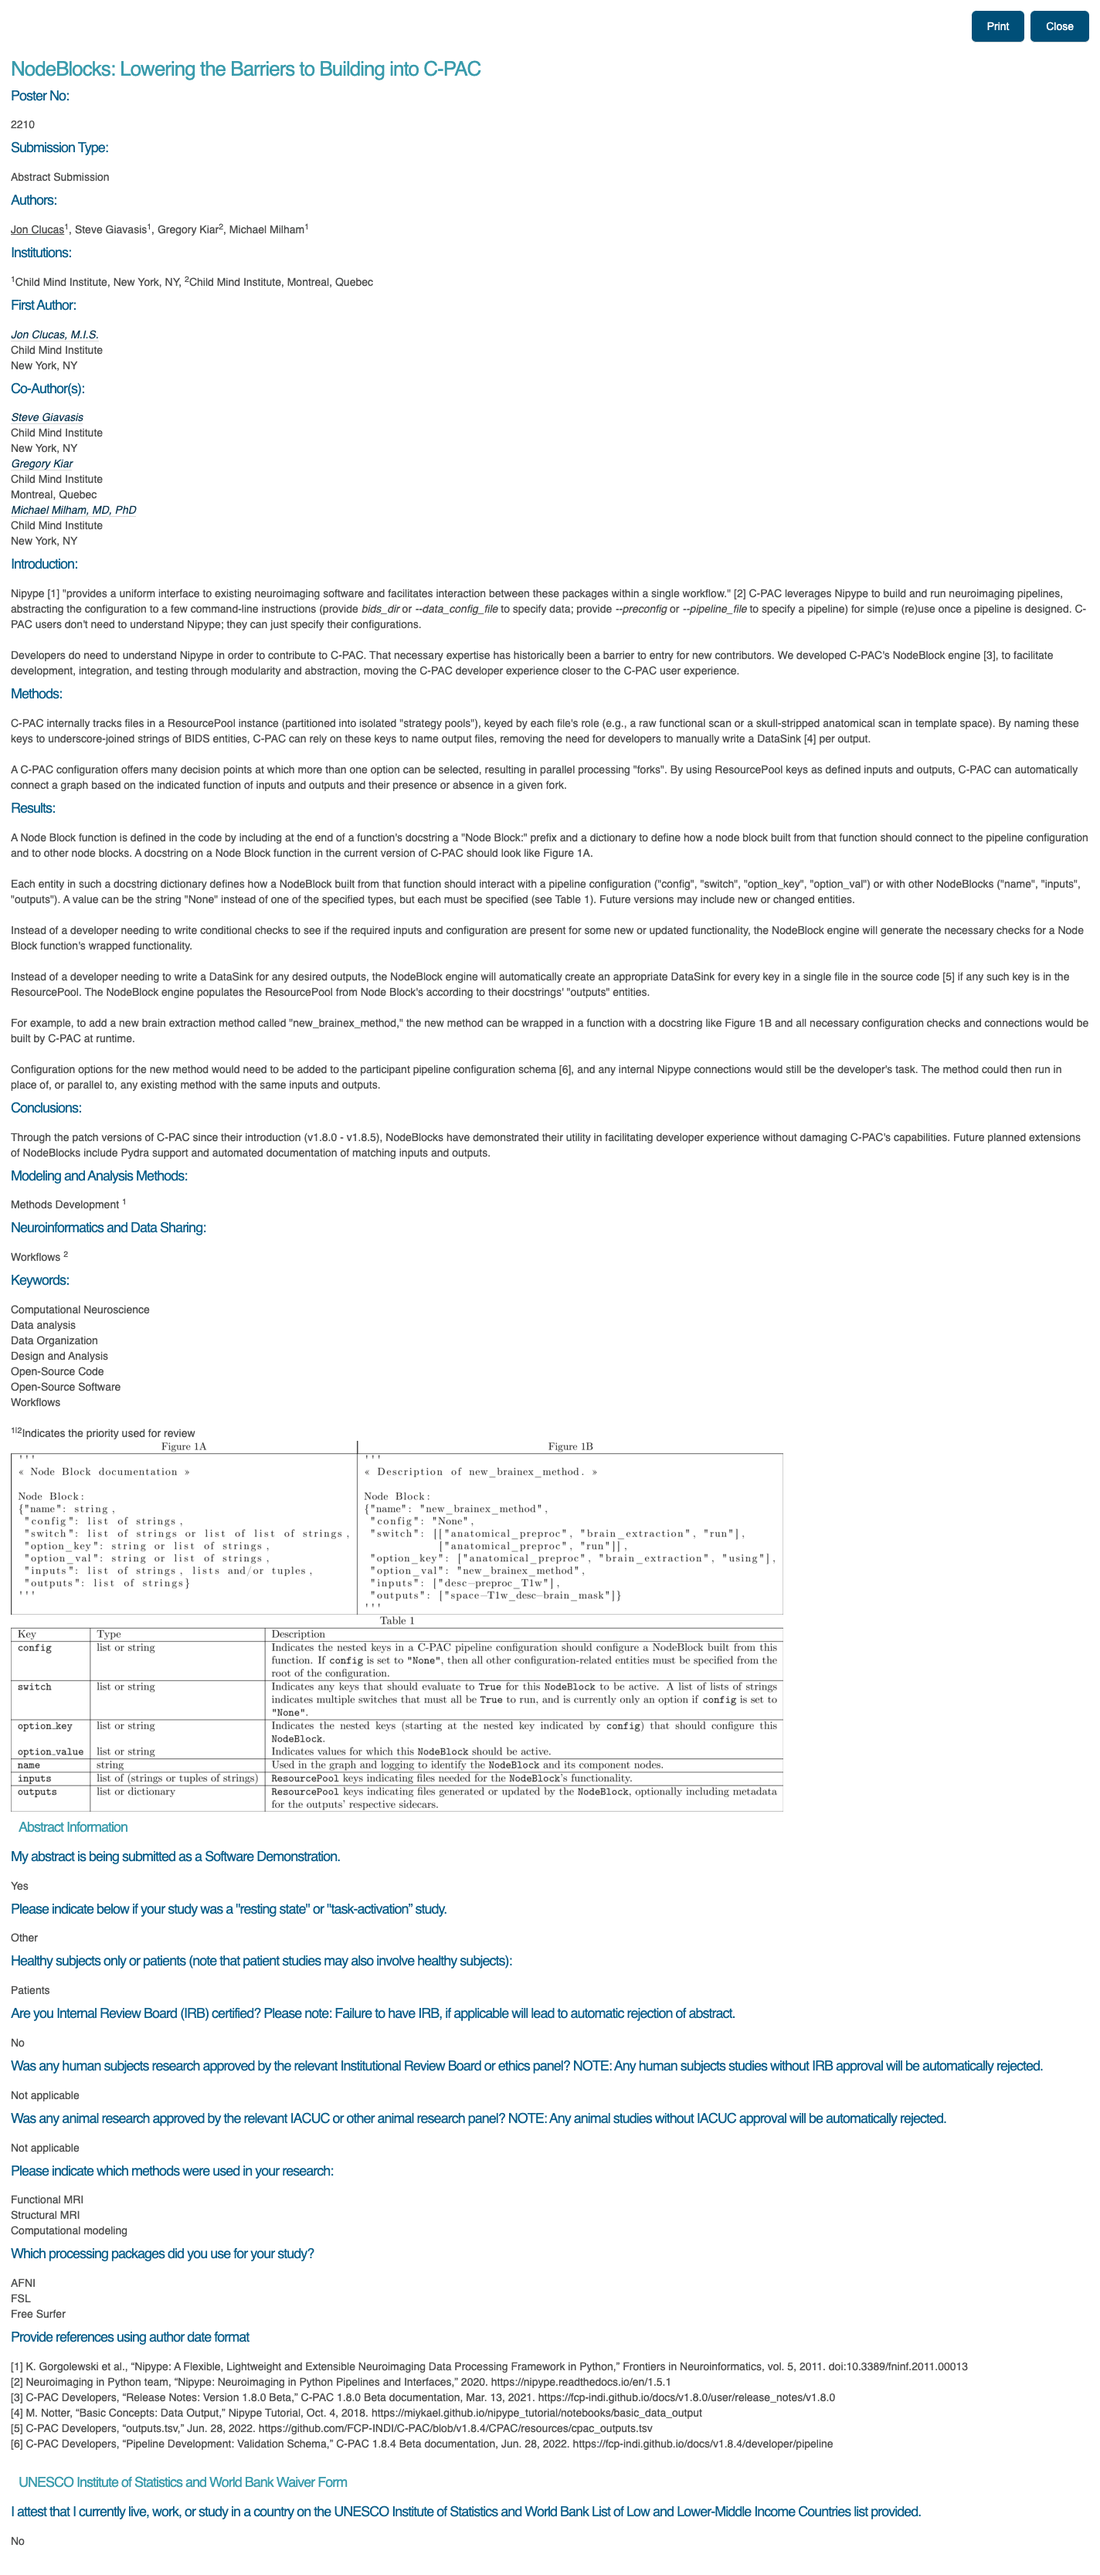
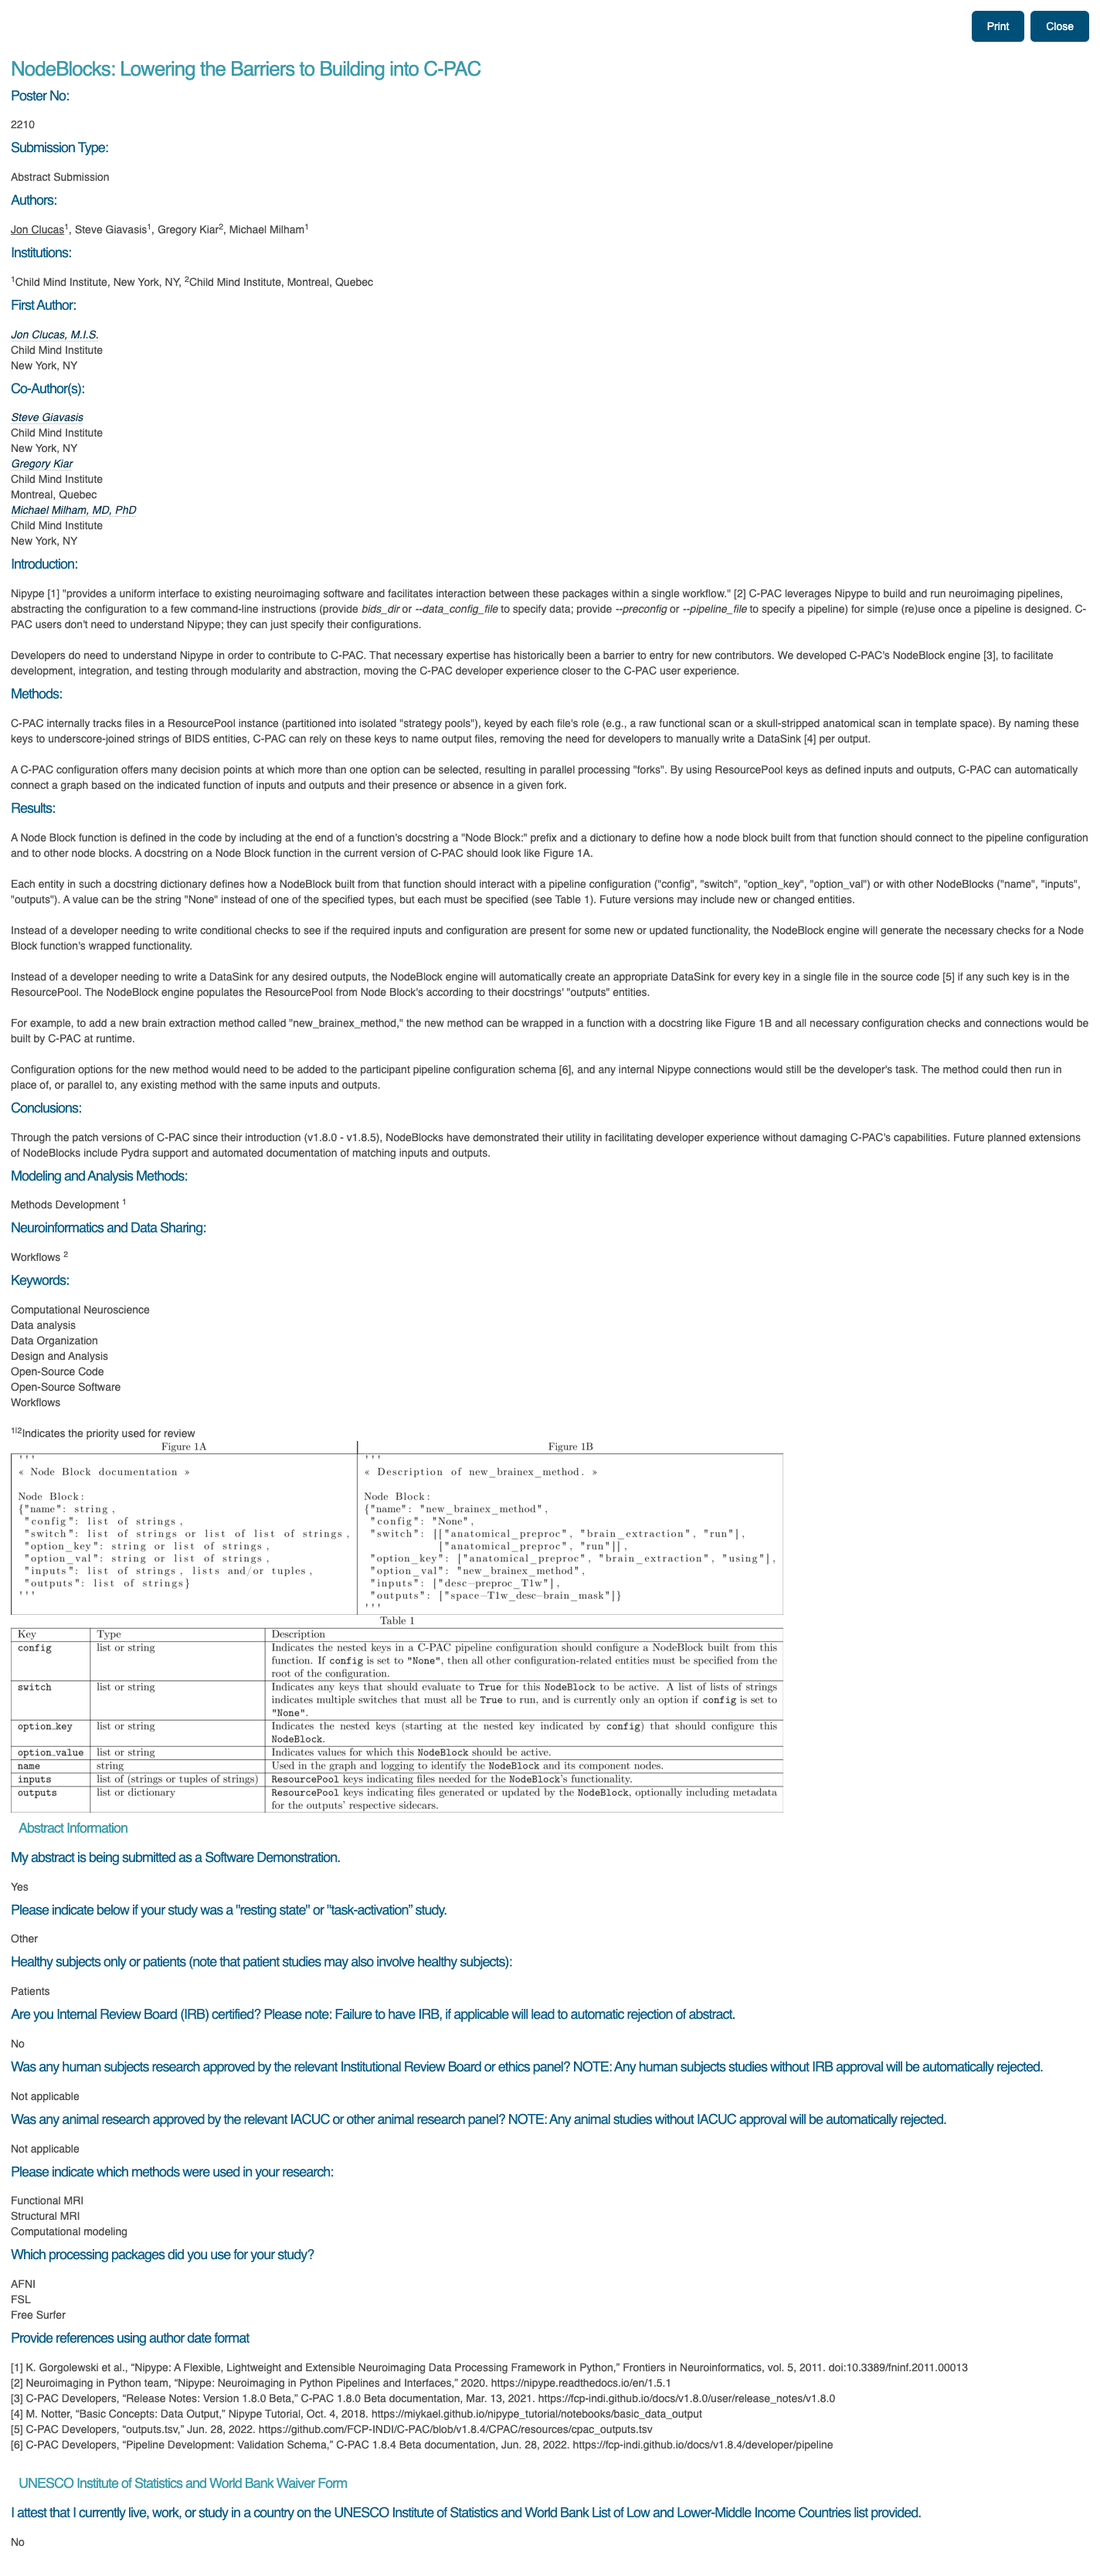
:pencil2: Add missing border

diff --git a/figures/table1.tex b/figures/table1.tex
@@ -11,6 +11,7 @@
     \texttt{switch} & list or string & Indicates any keys that should evaluate to \texttt{True} for this \texttt{NodeBlock} to be active. A list of lists of strings indicates multiple switches that must all be \texttt{True} to run, and is currently only an option if \texttt{config} is set to \texttt{"None"}. \\
     \hline
     \texttt{option\_key} & list or string & Indicates the nested keys (starting at the nested key indicated by \texttt{config}) that should configure this \texttt{NodeBlock}. \\
+    \hline
     \texttt{option\_value} & list or string & Indicates values for which this \texttt{NodeBlock} should be active. \\
     \hline
     \texttt{name} & string & Used in the graph and logging to identify the \texttt{NodeBlock} and its component nodes. \\
